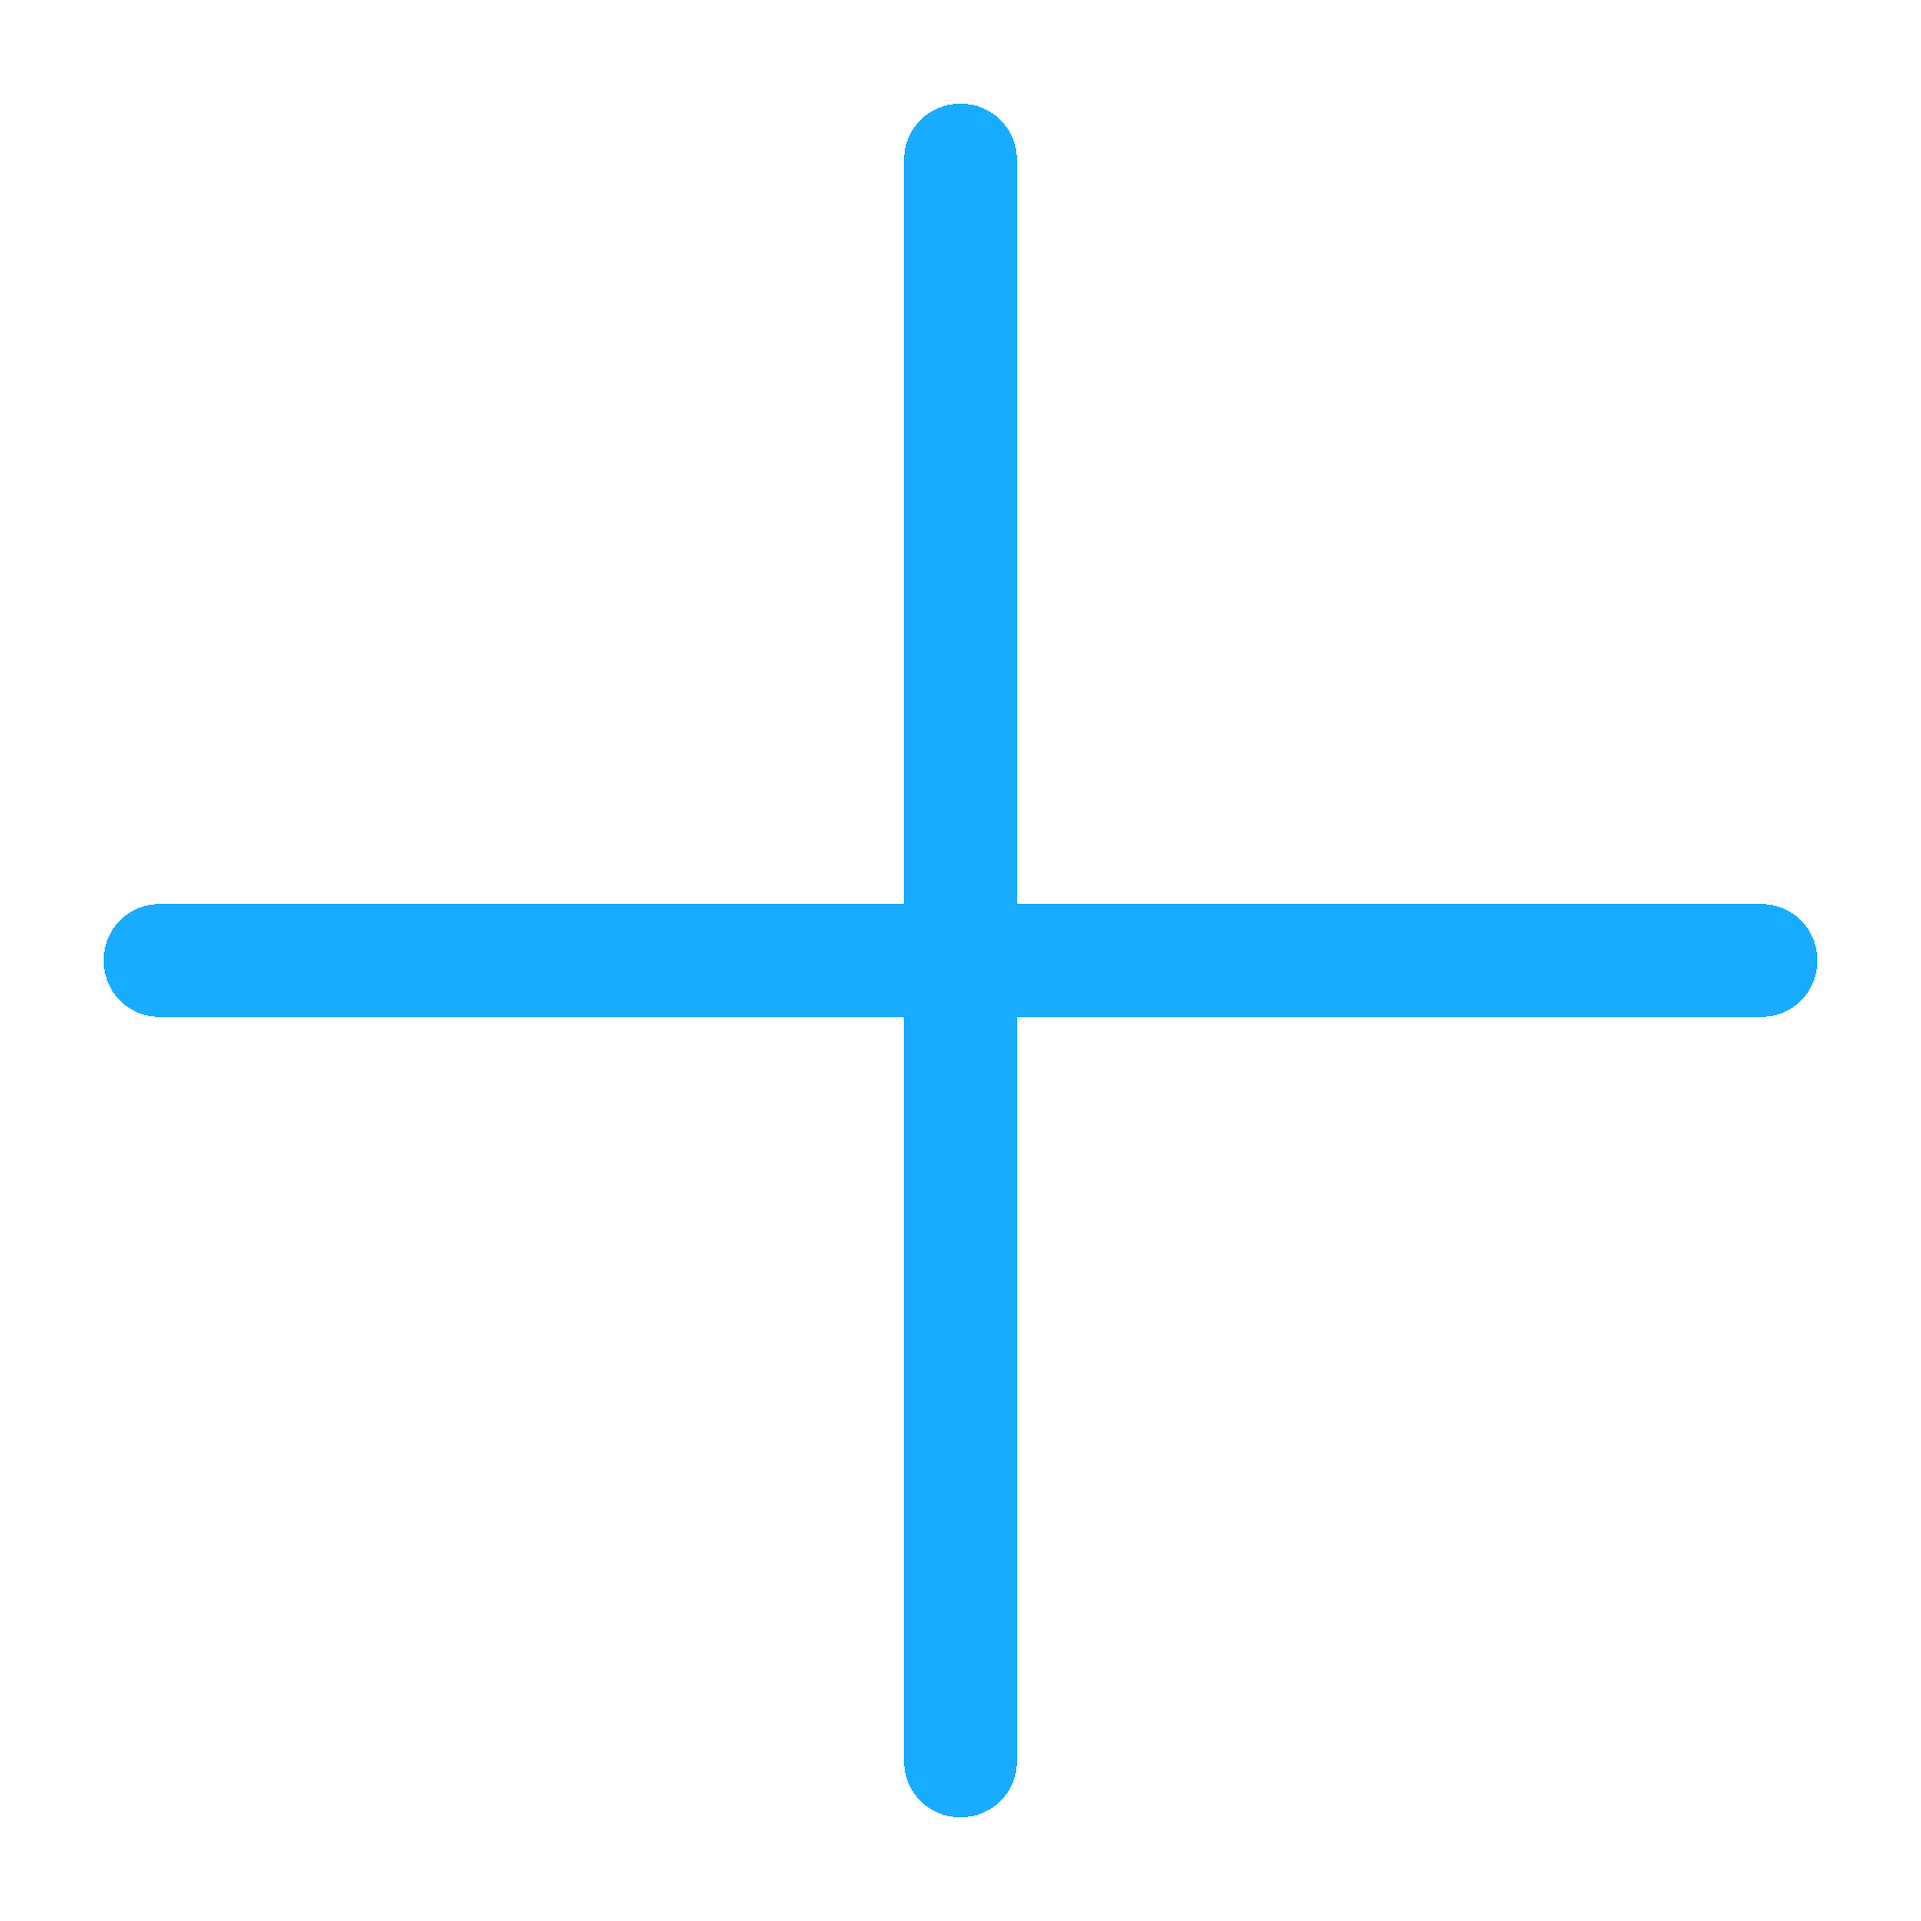
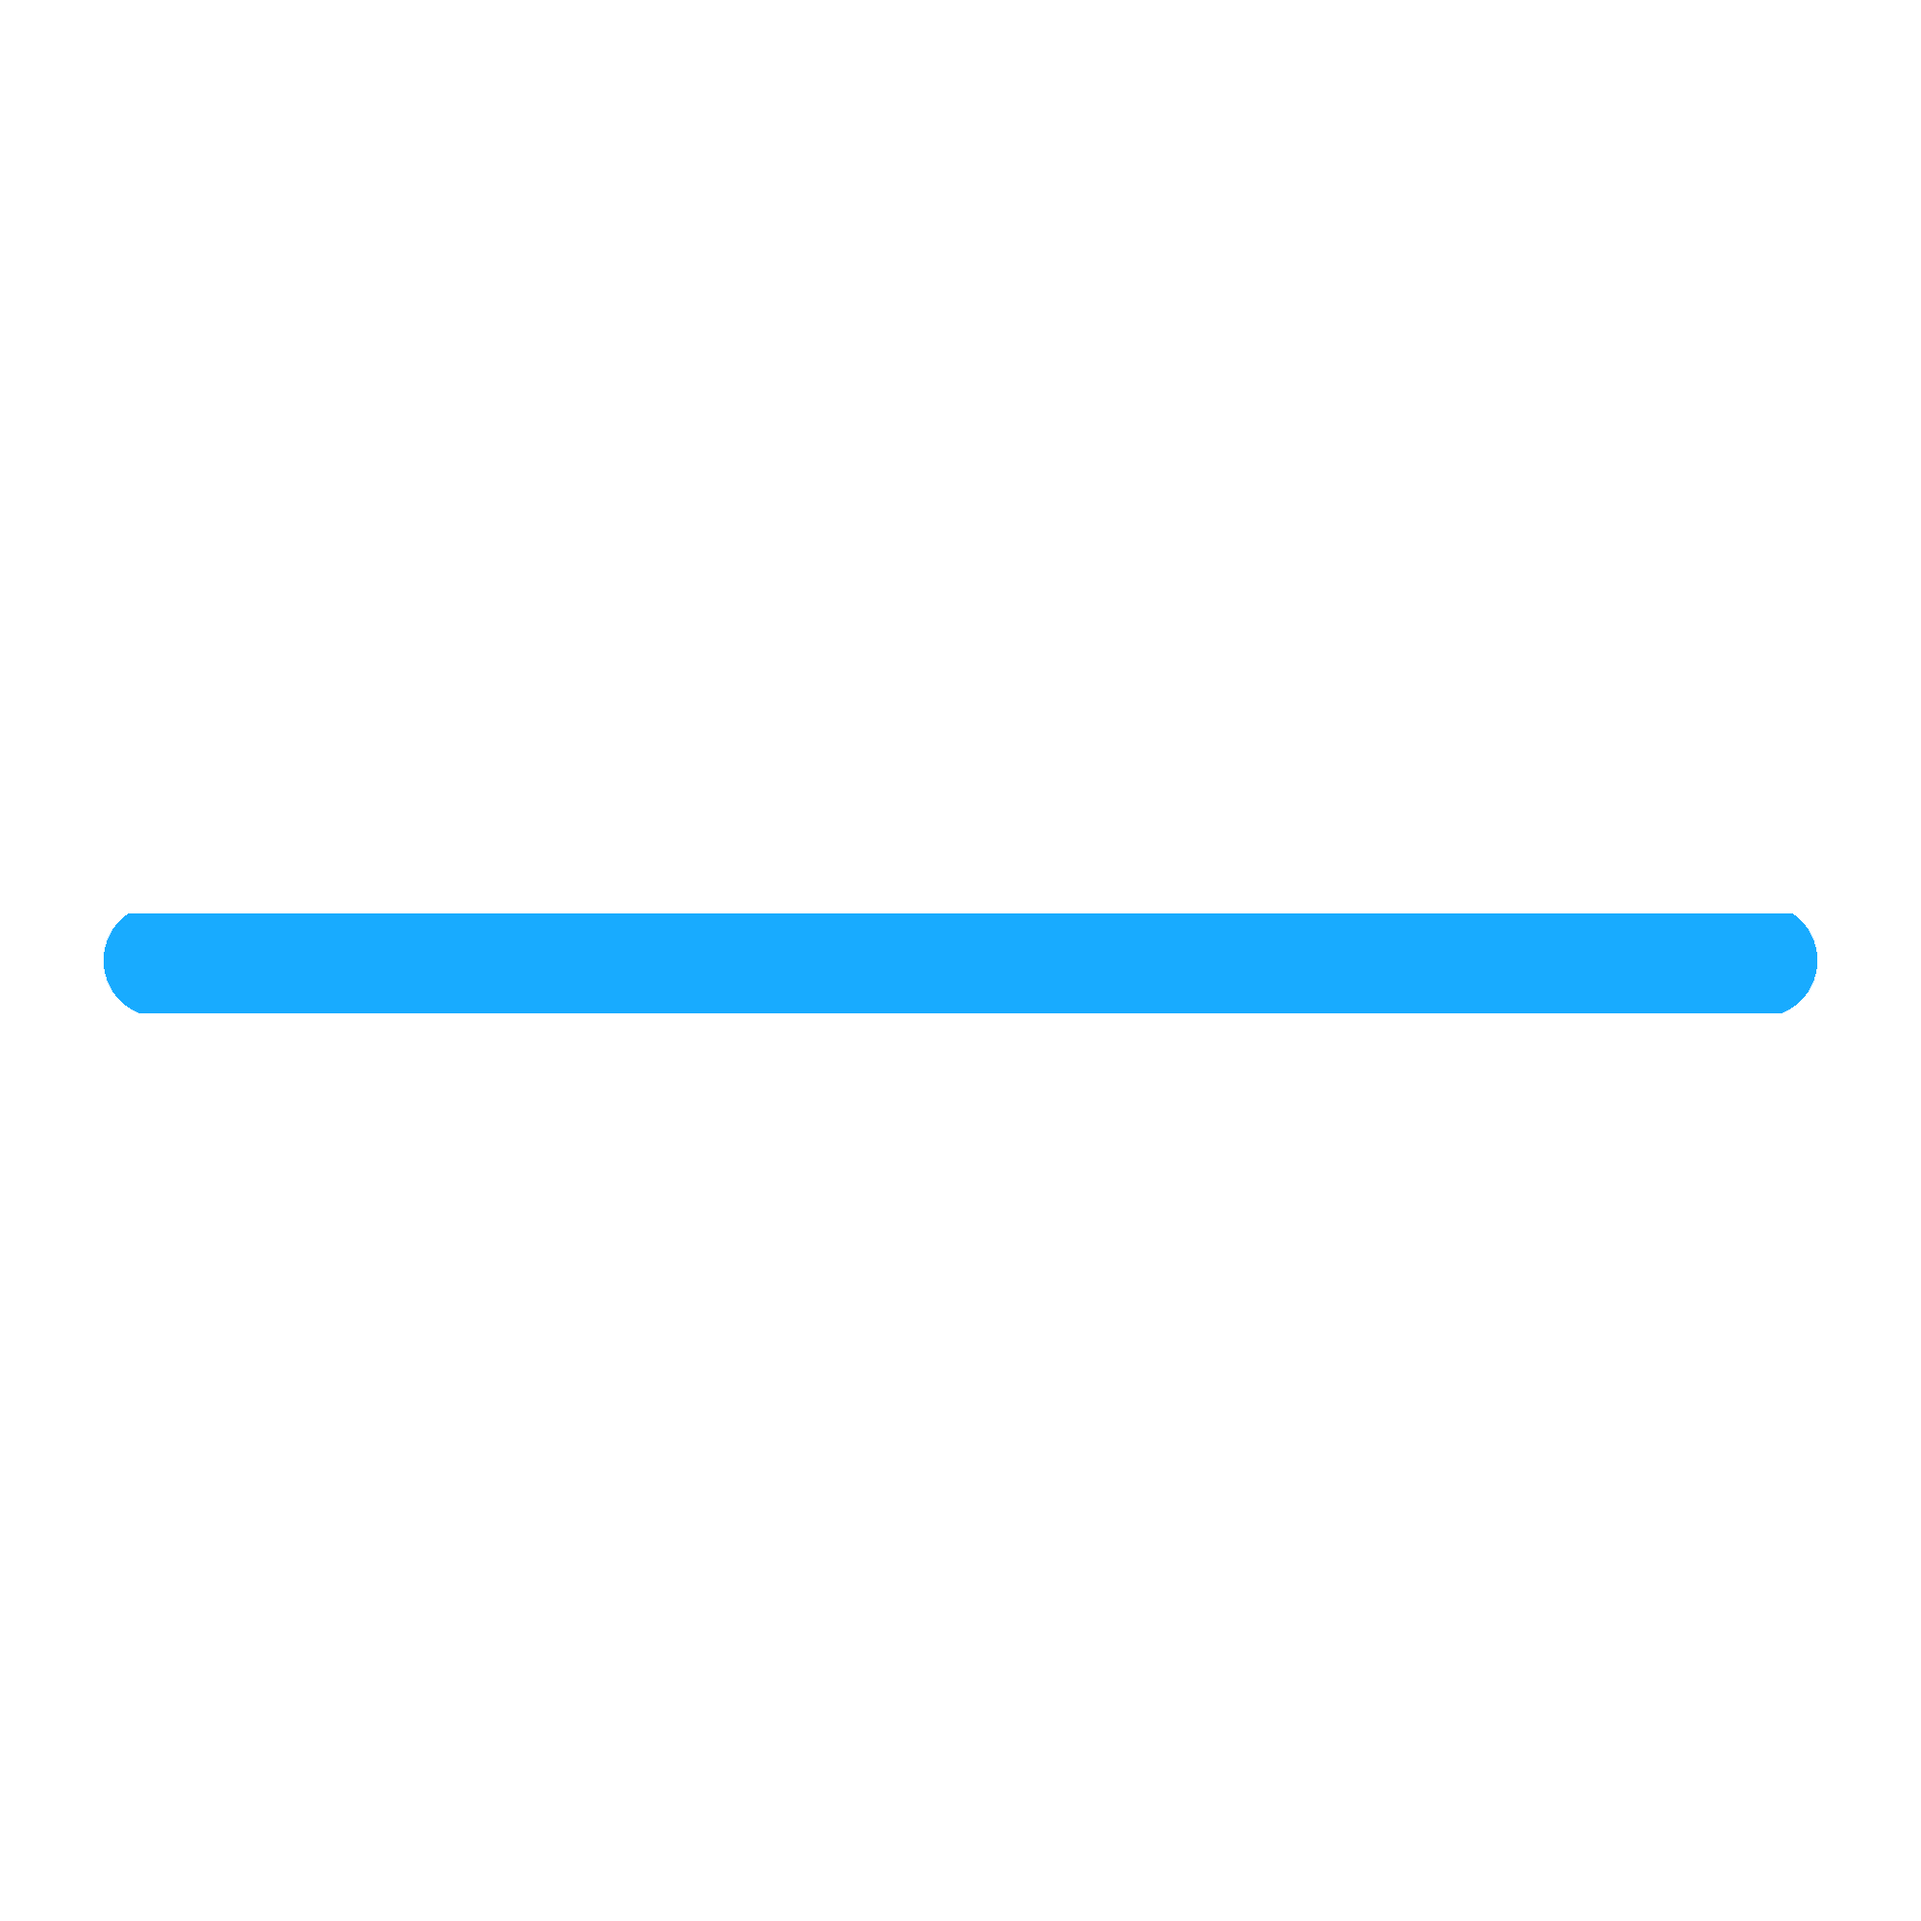
Watchlist update

Changed region(s): [[0.062, 0.031, 0.93, 0.496], [0.465, 0.527, 0.558, 0.961]]

diff --git a/root/js/main.js b/root/js/main.js
@@ -57,21 +57,17 @@ function main() {
       rated = response.Rated;
       plot = response.Plot;
 
-
-
     }).then(function() {
       //add content
       $("#grey-con").append("<div id=" + "con" + counter + " class='datadisplay col-xs-10 col-sm-5 col-md-3 col-lg-3'></div>");
 
-      $("#con" + counter).append("<div class='overlay'> <div class='movie-content' > <div class='play-btn'></div> <div class='more-info' data-title='" + title + "'></div> <div class='remove' data-title='" + title + "'></div> </div> </div>");
+      $("#con" + counter).append("<div class='overlay'> <div class='movie-content' > <div class='play-btn'></div> <div class='more-info' data-title='" + title + "'></div> <div class='remove-btn' id='remove' data-title='" + title + "'></div> </div> </div>");
 
       $("#con" + counter).css("background-image", 'url(' + image + ')');
 
       //add content
   });
-}
-
-    console.log(content);
+}else{
 
 
   $.ajax({
@@ -199,7 +195,7 @@ function main() {
 
     }
   });
-
+}
 }
 
 function clear() {
@@ -278,7 +274,7 @@ $(function() {
     event.preventDefault();
     $('#detailsModal').modal('show');
 
-    console.log($(this).data("title"));
+
 
     $.ajax({
       url: 'https://www.omdbapi.com/?t=' + encodeURI($(this).data("title")) + '&apikey=90d22851',
@@ -342,13 +338,16 @@ $(function() {
 
   });
 
-  $(document).on('click', '.remove', function(event) {
+
+$(document).on('click', '.remove-btn', function(event) {
 
     event.preventDefault();
 
 
-    console.log("remove");
-    $('#watch-modal').modal('show');
+    console.log("remove-btn");
+
+    $(this).parent().parent().parent().hide();
+
 
   });
 

diff --git a/root/css/stylesheet.css b/root/css/stylesheet.css
@@ -229,7 +229,7 @@
     background-size: contain;
   }
 
-  .remove{
+  .remove-btn{
     margin: 0px;
     width: 15%;
     height: 125px;
@@ -245,6 +245,8 @@
 .datadisplay:hover .overlay {
       height: 100%;
 }
+
+
 
 .poster{
   width: 100px;
@@ -339,7 +341,7 @@
     margin-top: 70px;
     }
 
-    .remove{
+    .remove-btn{
     margin-top: 70px;
     }
 
@@ -430,23 +432,21 @@
     .addwatchlist{
     margin-top: -10px;
     }
-<<<<<<< HEAD
-    
+
+
     .movieDetails {
         height: 400px;
         width: 250px;
         float: right;
         margin-top: -350px;
     }
-    
+
     #return {
         margin-top: -100px;
         float: right;
     }
-    
-=======
-    .remove{
+
+
+    .remove-btn{
     margin-top: -10px;
     }
->>>>>>> 828295eb3e5f6a8a95c7a187ed97621bcd23ad47
-}
